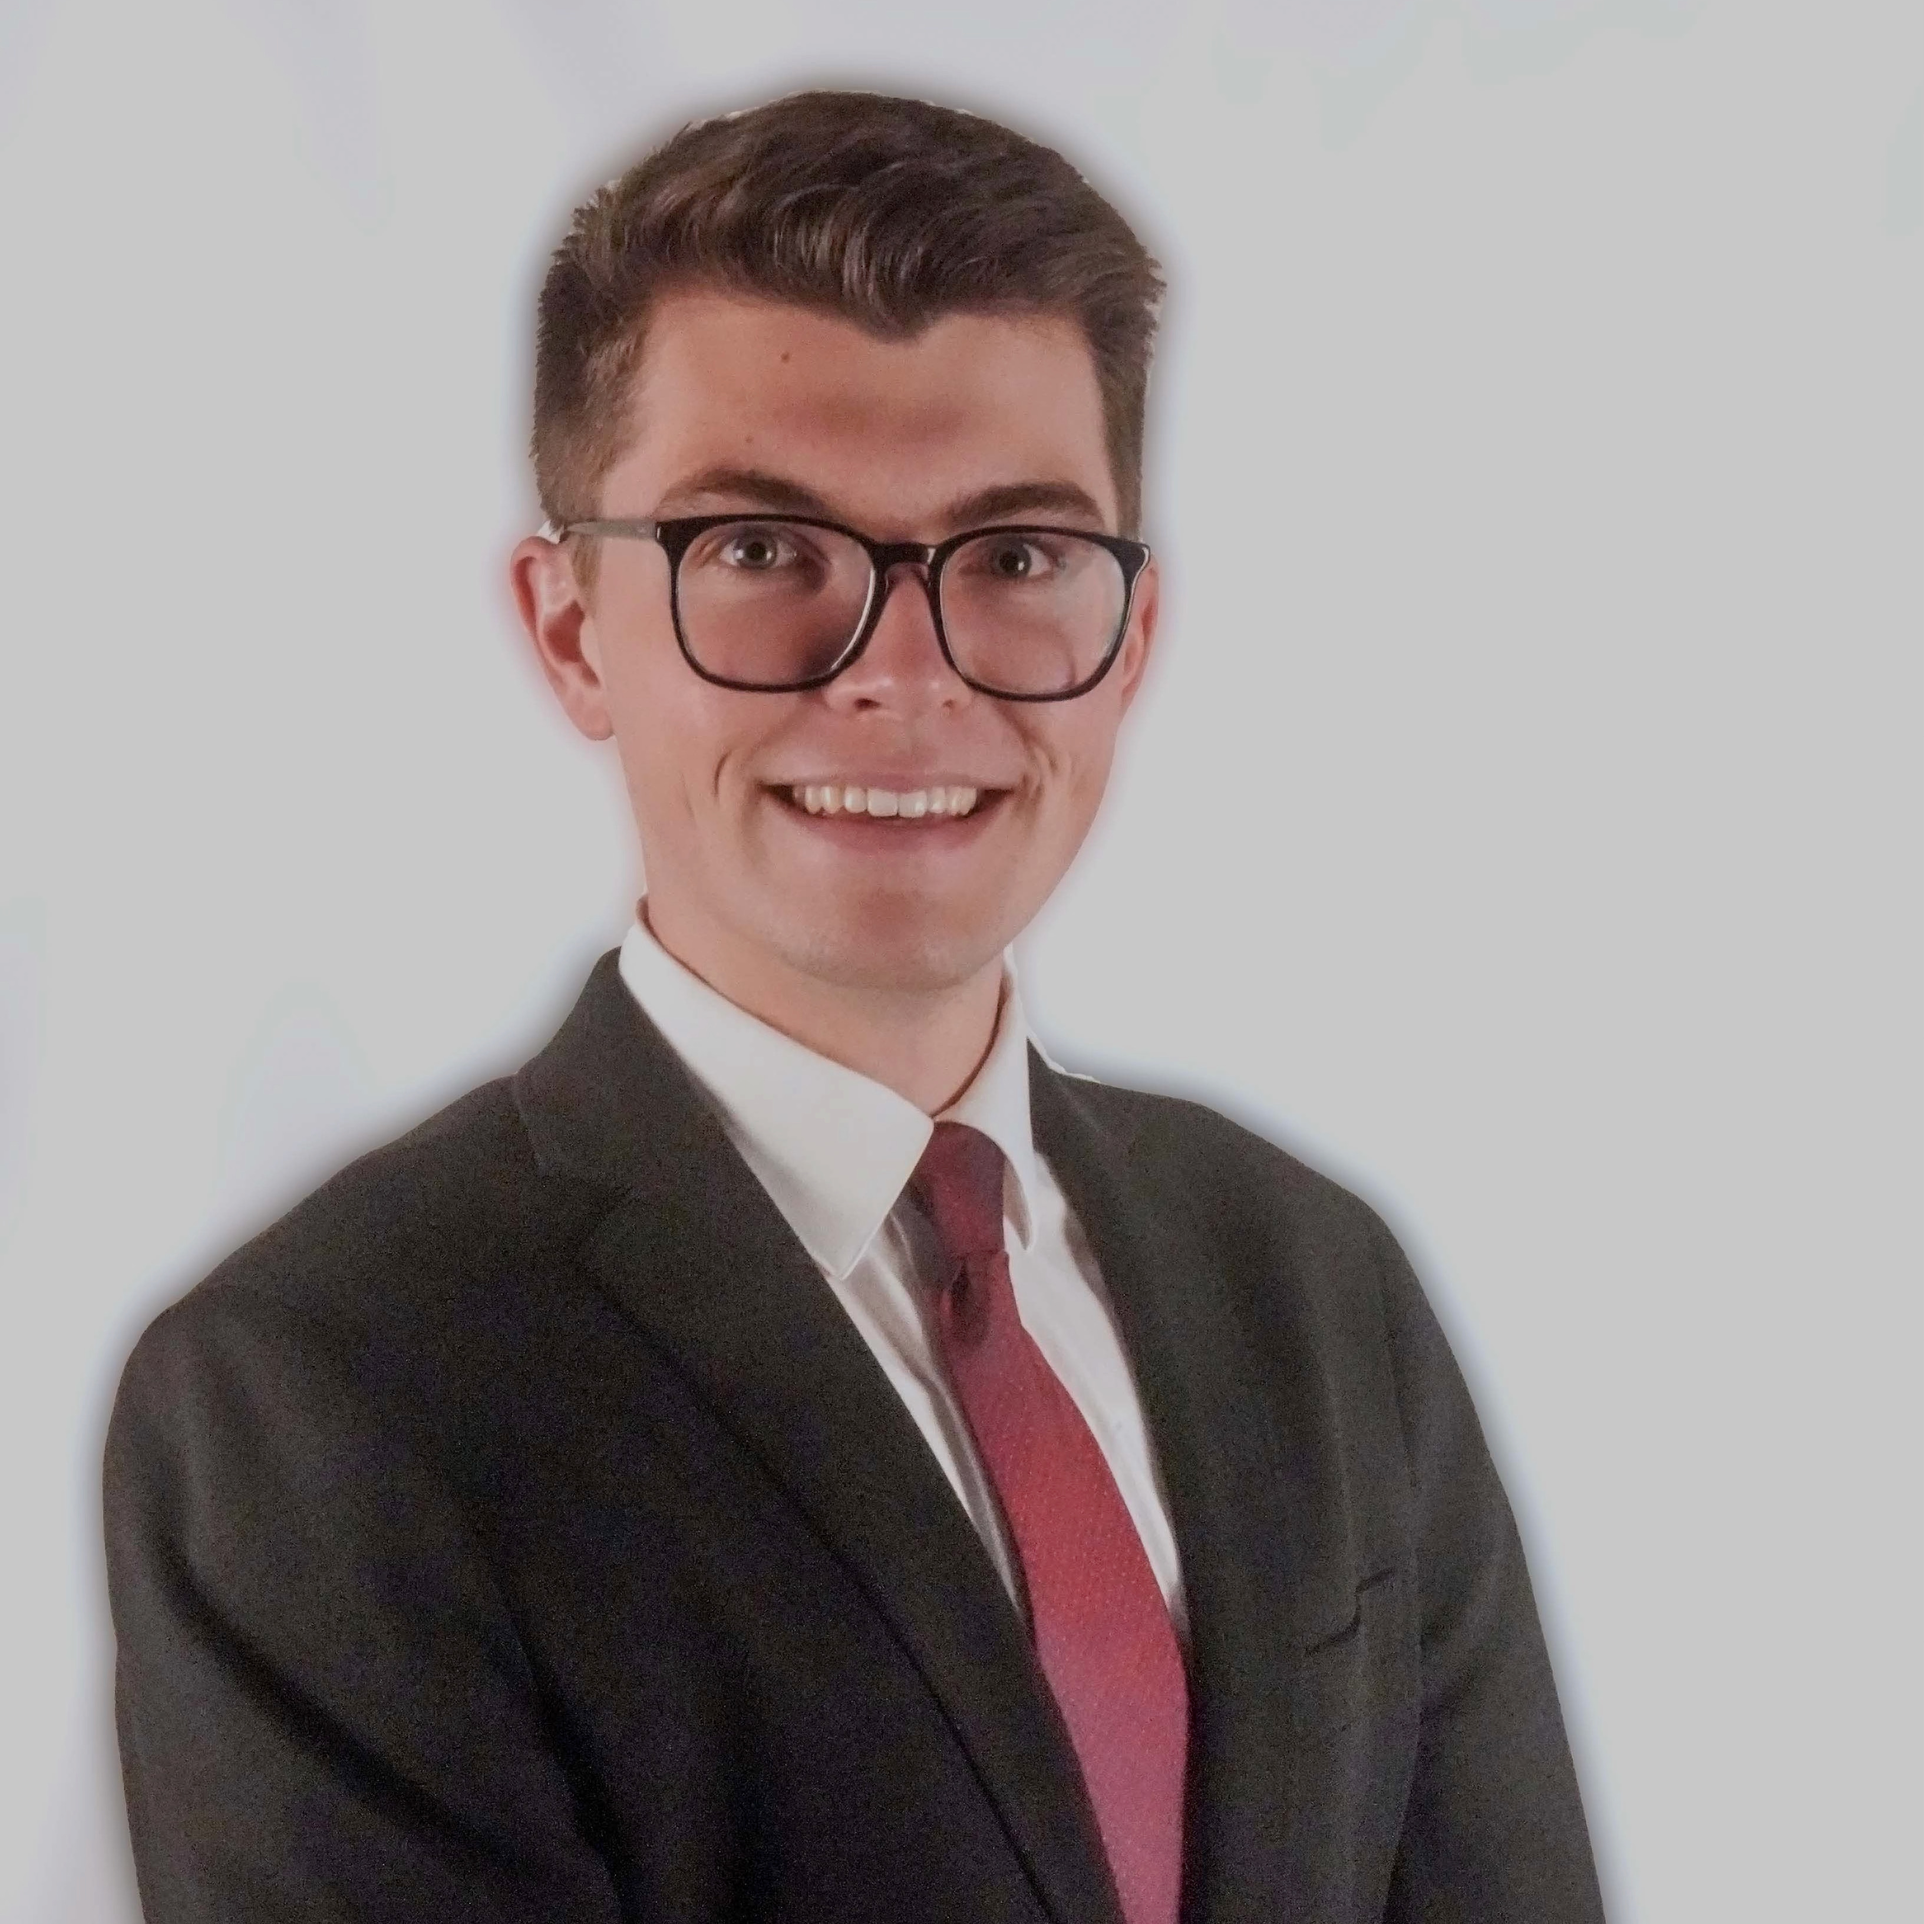
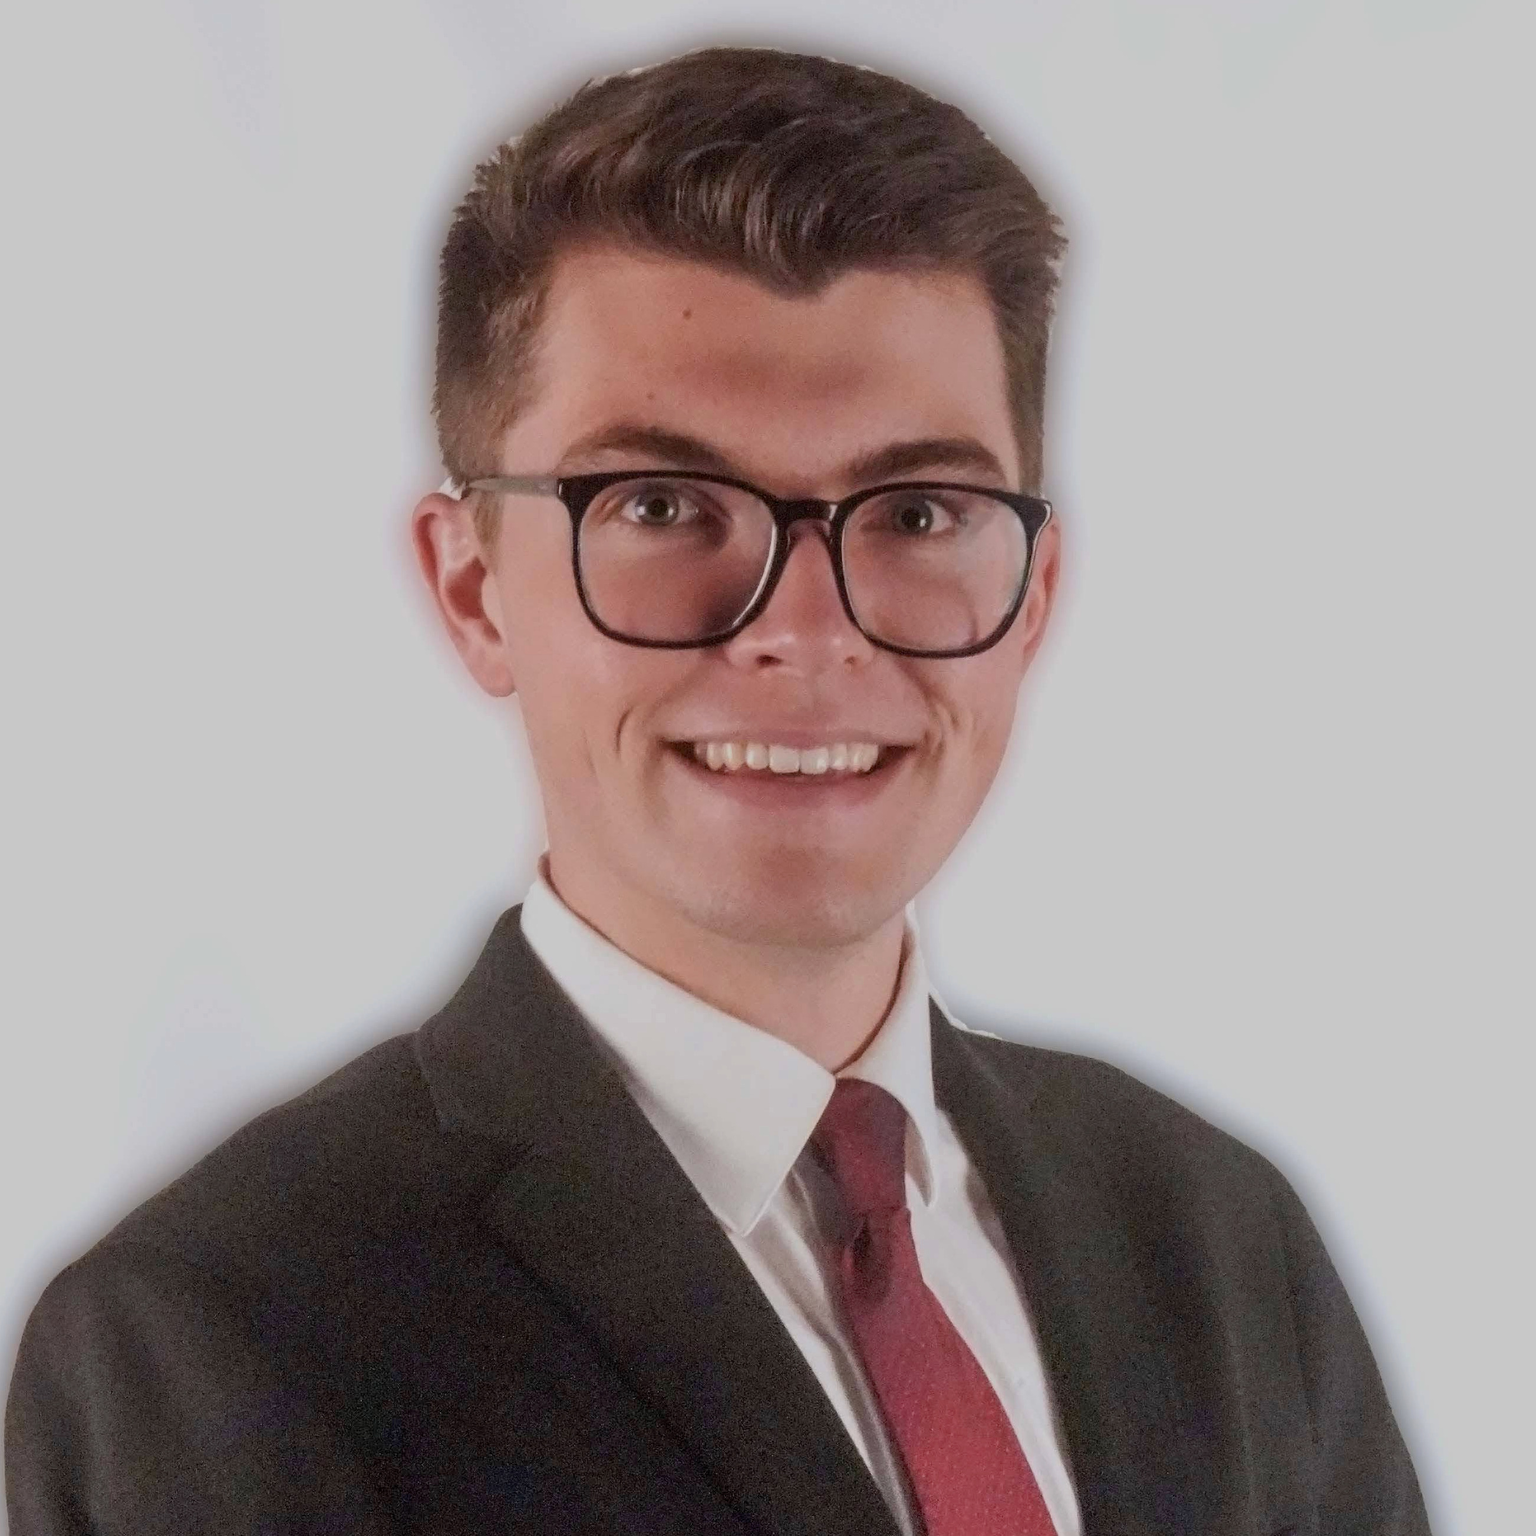
Update profilepic and add hobbies

diff --git a/index.html b/index.html
@@ -50,8 +50,7 @@
             <li class="current"><a class="smoothscroll" href="#home">Home</a></li>
             <li><a class="smoothscroll" href="#about">About</a></li>
             <li><a class="smoothscroll" href="#resume">Resume</a></li>
-            <li><a class="smoothscroll" href="#portfolio">Works</a></li>
-            <li><a class="smoothscroll" href="#testimonials">Testimonials</a></li>
+            <li><a class="smoothscroll" href="#testimonials">Favorite Quotes</a></li>
             <li><a class="smoothscroll" href="#contact">Contact</a></li>
          </ul> <!-- end #nav -->
 
@@ -124,7 +123,8 @@
 
                <div class="columns download">
                   <p>
-                     <a href="#" class="button"><i class="fa fa-download"></i>Download Resume</a>
+                     <a class="button" onclick="alert('Resume coming soon——refer to my linkedin page for now please.')"><i class="fa fa-download">
+                     </i>Download Resume</a>
                   </p>
                </div>
 
@@ -159,8 +159,10 @@
                   <p class="info">B.S. Computer Science<span>&bull;</span> <em class="date">Expected Graduation: May,
                         2022</em></p>
 
-                  <p></p>
-
+                  <ul>
+                     <li>- 3.92 GPA</li>
+                     <li>- Deans List 6/6 Semesters</li>
+                  </ul>
                </div>
 
             </div> <!-- item end -->
@@ -173,7 +175,9 @@
                   <p class="info"><em class="date">August 2014-May,
                         2018</em></p>
 
-                  <p></p>
+                  <p>
+                     - National Honors Society Member
+                  </p>
 
                </div>
 
@@ -254,7 +258,7 @@
                   <p class="info"><em class="date">February 2021-May 2021</em></p>
 
                   <p>
-                     - Structured various maritime data in MongoDB <br/>
+                     - Structured JSON maritime data in MongoDB <br/>
                      - Implemented a DAO module in Node.js to encapsulate queries on the maritime data. <br/>
                      - Developed a rigorous unit testing module for the DAO using Mocha Chai (js framework)
                   </p>
@@ -362,6 +366,49 @@
 
       </div> <!-- End skills -->
 
+
+      <!-- Hobbies
+      ----------------------------------------------- -->
+      <div class="row work">
+
+         <div class="three columns header-col">
+            <h1><span>Hobbies</span></h1>
+         </div>
+
+         <div class="nine columns main-col">
+
+            <div class="row item">
+
+               <div class="twelve columns">
+
+                  <h3>CCSC Programming Competition</a></h3>
+                  <p class="info"><em class="date">October 2019-Present</em></p>
+                  <ul> 
+                     <li>- Competes in yearly competition to develop solutions to programming puzzles</li>
+                     <li>- Finished 4th place out of 15+ teams in 2020</li>
+                  </ul>
+               </div>
+
+            </div> <!-- item end -->
+
+            <div class="row item">
+
+               <div class="twelve columns">
+
+                  <h3>Navigators Leadership Team</a></h3>
+                  <p class="info"><em class="date">August 2020-Present</em></p>
+                  <ul> 
+                     <li>- Organizes and leads a weekly Bible study for young men</li>
+                     <li>- Mentors an underclassmen weekly in faith and character development</li>
+                     <li>- Promotes monthly events to build relationships and community with students at Ball State</li>
+                  </ul>
+               </div>
+
+            </div> <!-- item end -->
+         </div> <!-- main-col end -->
+
+      </div> <!-- End Hobbies -->
+
    </section> <!-- Resume Section End-->
 
 
@@ -420,125 +467,7 @@
 
    </section> <!-- Testimonials Section End-->
 
-
-   <!-- Contact Section
-   ================================================== -->
-   <section id="contact">
-
-      <div class="row section-head">
-
-         <div class="two columns header-col">
-
-            <h1><span>Get In Touch.</span></h1>
-
-         </div>
-
-         <div class="ten columns">
-
-            <p class="lead">
-               Contact me for research collaborations, business proposals, open source projects or just to say "hi" and
-               grab a cup of coffee.
-            </p>
-
-         </div>
-
-      </div>
-
-      <div class="row">
-
-         <div class="eight columns">
-
-            <!-- form -->
-            <form action="" method="post" id="contactForm" name="contactForm">
-               <fieldset>
-
-                  <div>
-                     <label for="contactName">Name <span class="required">*</span></label>
-                     <input type="text" value="" size="35" id="contactName" name="contactName">
-                  </div>
-
-                  <div>
-                     <label for="contactEmail">Email <span class="required">*</span></label>
-                     <input type="text" value="" size="35" id="contactEmail" name="contactEmail">
-                  </div>
-
-                  <div>
-                     <label for="contactSubject">Subject</label>
-                     <input type="text" value="" size="35" id="contactSubject" name="contactSubject">
-                  </div>
-
-                  <div>
-                     <label for="contactMessage">Message <span class="required">*</span></label>
-                     <textarea cols="50" rows="15" id="contactMessage" name="contactMessage"></textarea>
-                  </div>
-
-                  <div>
-                     <button class="submit">Submit</button>
-                     <span id="image-loader">
-                        <img alt="" src="images/loader.gif">
-                     </span>
-                  </div>
-
-               </fieldset>
-            </form> <!-- Form End -->
-
-            <!-- contact-warning -->
-            <div id="message-warning"> Error boy</div>
-            <!-- contact-success -->
-            <div id="message-success">
-               <i class="fa fa-check"></i>Your message was sent, thank you!<br>
-            </div>
-
-         </div>
-
-
-         <aside class="four columns footer-widgets">
-
-            <div class="widget widget_contact">
-
-               <h4>Address and Phone</h4>
-               <p class="address">
-                  Jonathan Doe<br>
-                  1600 Amphitheatre Parkway <br>
-                  Mountain View, CA 94043 US<br>
-                  <span>(123) 456-7890</span>
-               </p>
-
-            </div>
-
-            <div class="widget widget_tweets">
-
-               <h4 class="widget-title">Latest Tweets</h4>
-
-               <ul id="twitter">
-                  <li>
-                     <span>
-                        This is Photoshop's version of Lorem Ipsum. Proin gravida nibh vel velit auctor aliquet.
-                        Aenean sollicitudin, lorem quis bibendum auctor, nisi elit consequat ipsum
-                        <a href="#">http://t.co/CGIrdxIlI3</a>
-                     </span>
-                     <b><a href="#">2 Days Ago</a></b>
-                  </li>
-                  <li>
-                     <span>
-                        Sed ut perspiciatis unde omnis iste natus error sit voluptatem accusantium doloremque
-                        laudantium, totam rem aperiam,
-                        eaque ipsa quae ab illo inventore veritatis et quasi
-                        <a href="#">http://t.co/CGIrdxIlI3</a>
-                     </span>
-                     <b><a href="#">3 Days Ago</a></b>
-                  </li>
-               </ul>
-
-            </div>
-
-         </aside>
-
-      </div>
-
-   </section> <!-- Contact Section End-->
-
-
+   
    <!-- footer
    ================================================== -->
    <footer>
@@ -548,13 +477,9 @@
          <div class="twelve columns">
 
             <ul class="social-links">
-               <li><a href="#"><i class="fa fa-facebook"></i></a></li>
-               <li><a href="#"><i class="fa fa-twitter"></i></a></li>
-               <li><a href="#"><i class="fa fa-google-plus"></i></a></li>
-               <li><a href="#"><i class="fa fa-linkedin"></i></a></li>
-               <li><a href="#"><i class="fa fa-instagram"></i></a></li>
-               <li><a href="#"><i class="fa fa-dribbble"></i></a></li>
-               <li><a href="#"><i class="fa fa-skype"></i></a></li>
+               <li><a href="https://www.facebook.com/ben.eger.3"><i class="fa fa-facebook"></i></a></li>
+               <li><a href="https://www.linkedin.com/in/ben-eger/"><i class="fa fa-linkedin"></i></a></li>
+               <li><a href="https://www.instagram.com/ben_eger/"><i class="fa fa-instagram"></i></a></li>
             </ul>
 
             <ul class="copyright">
